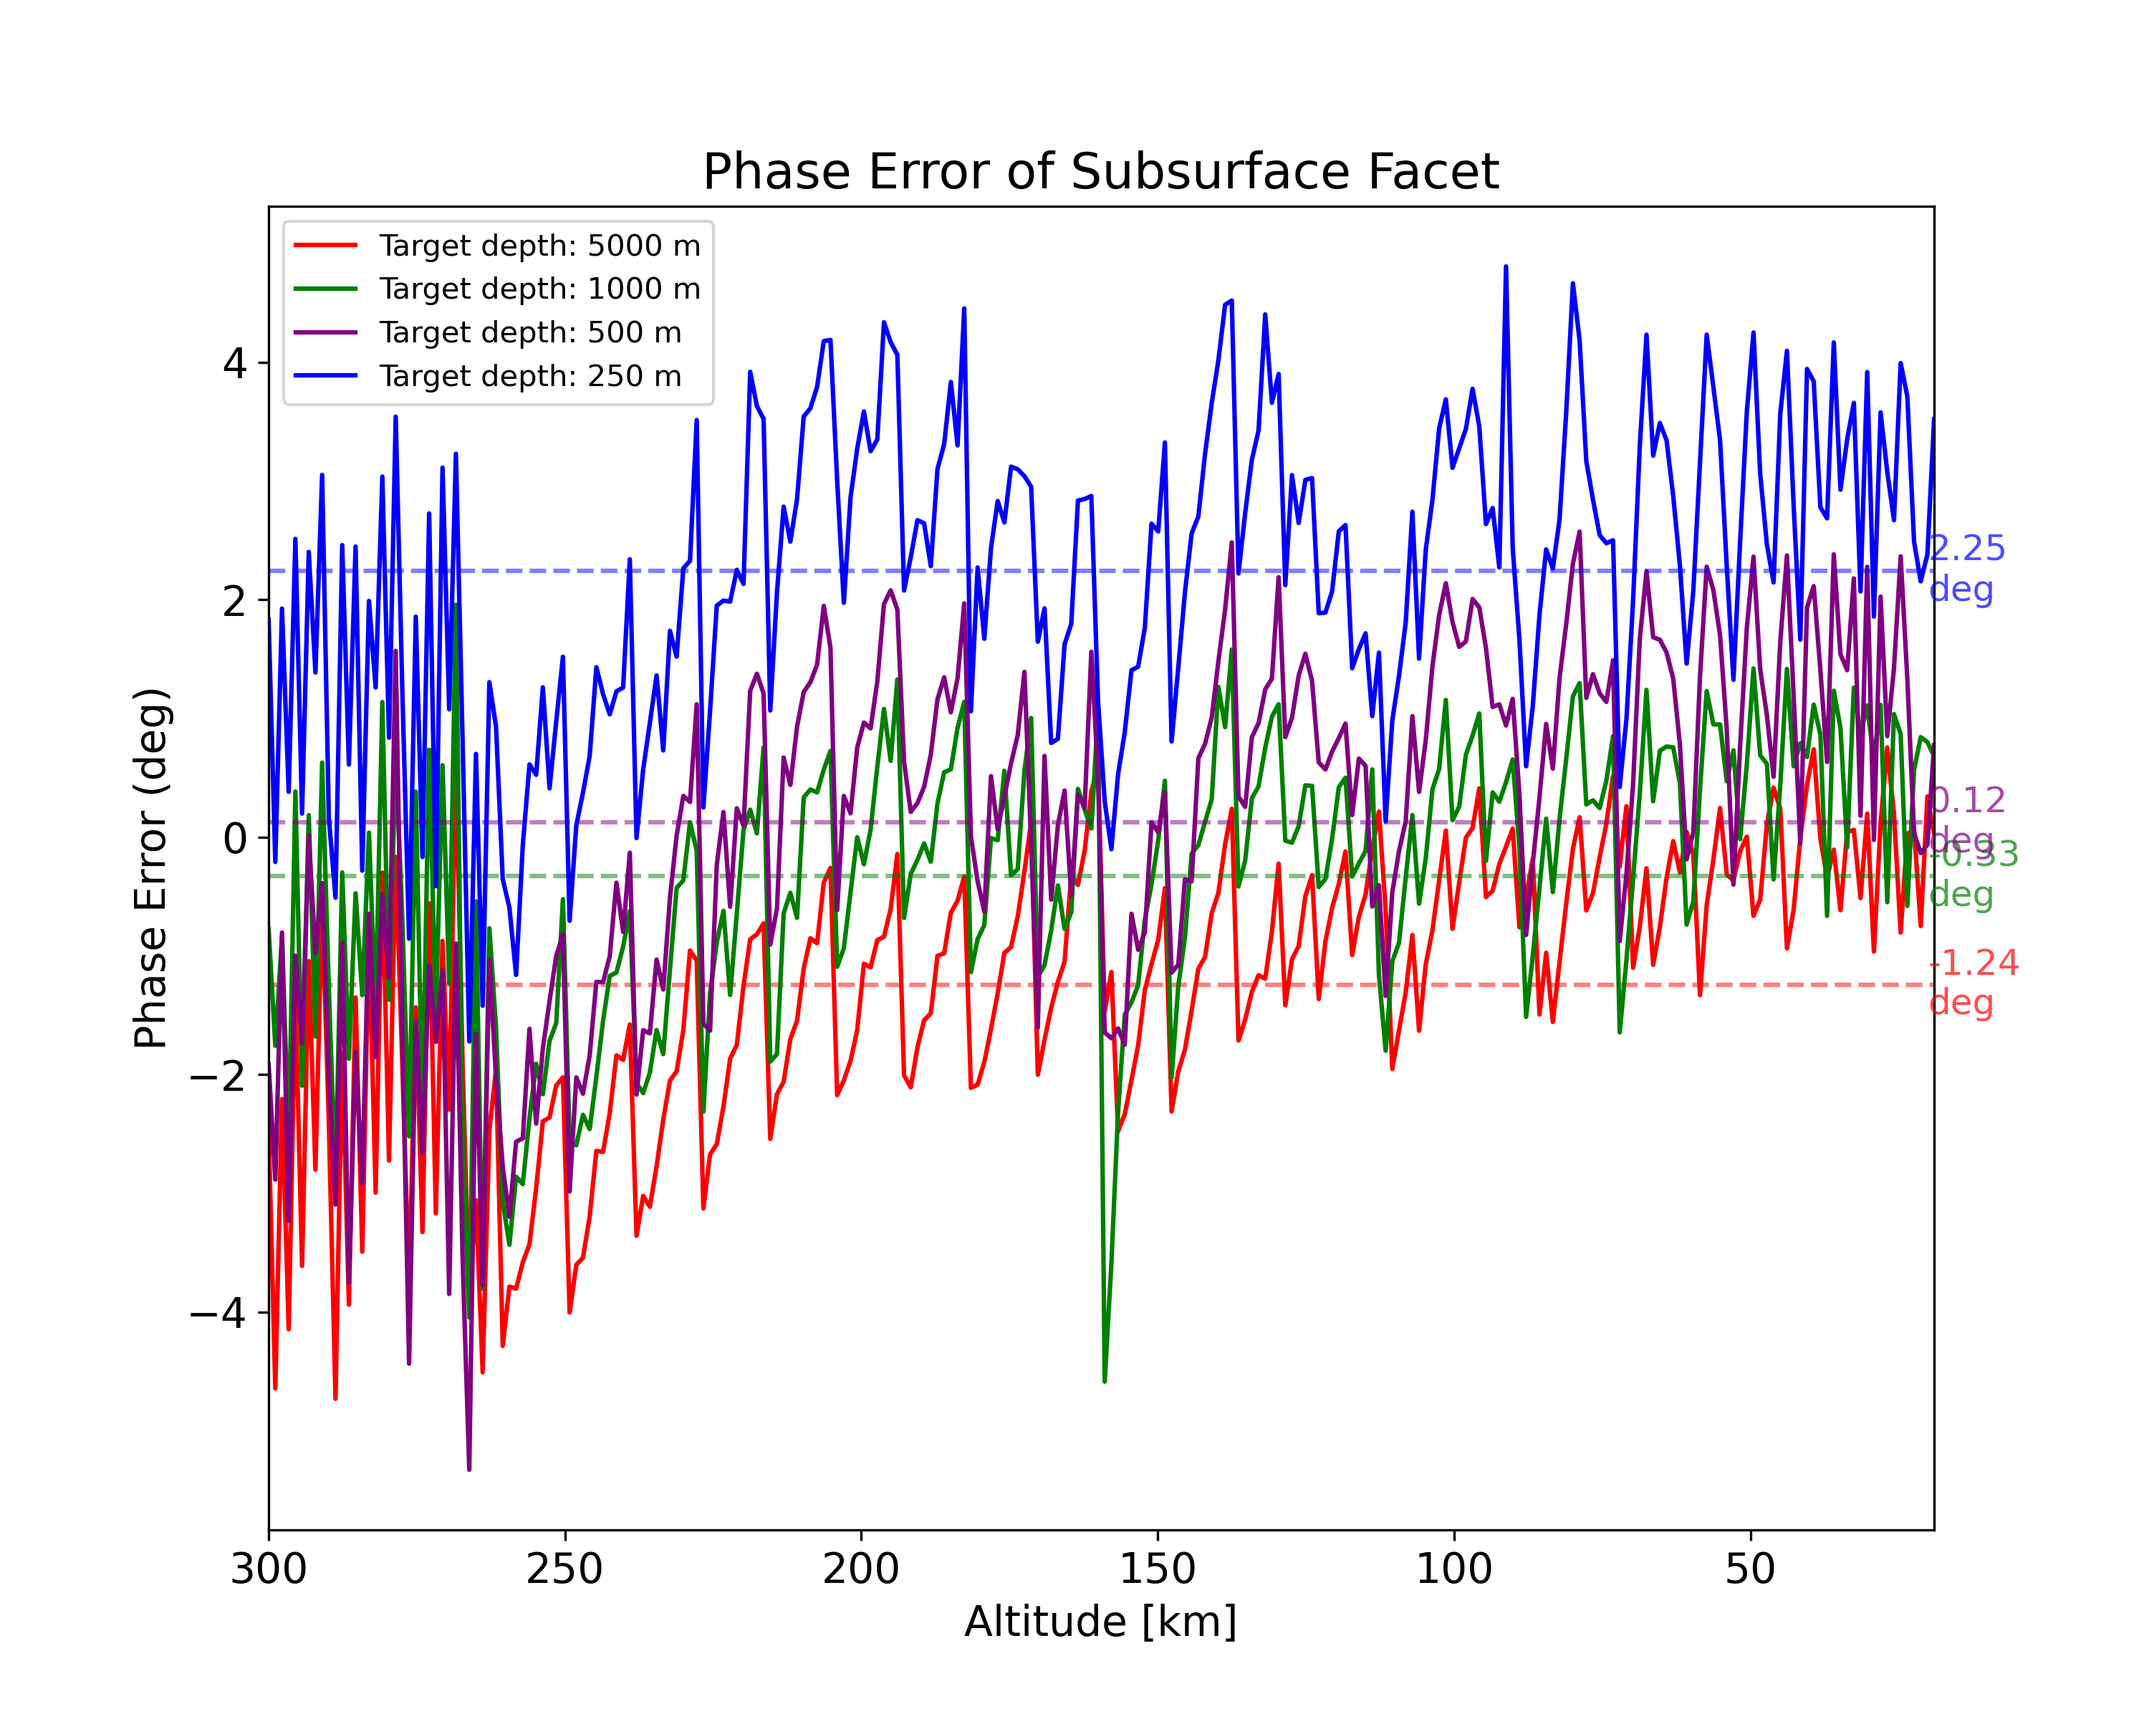
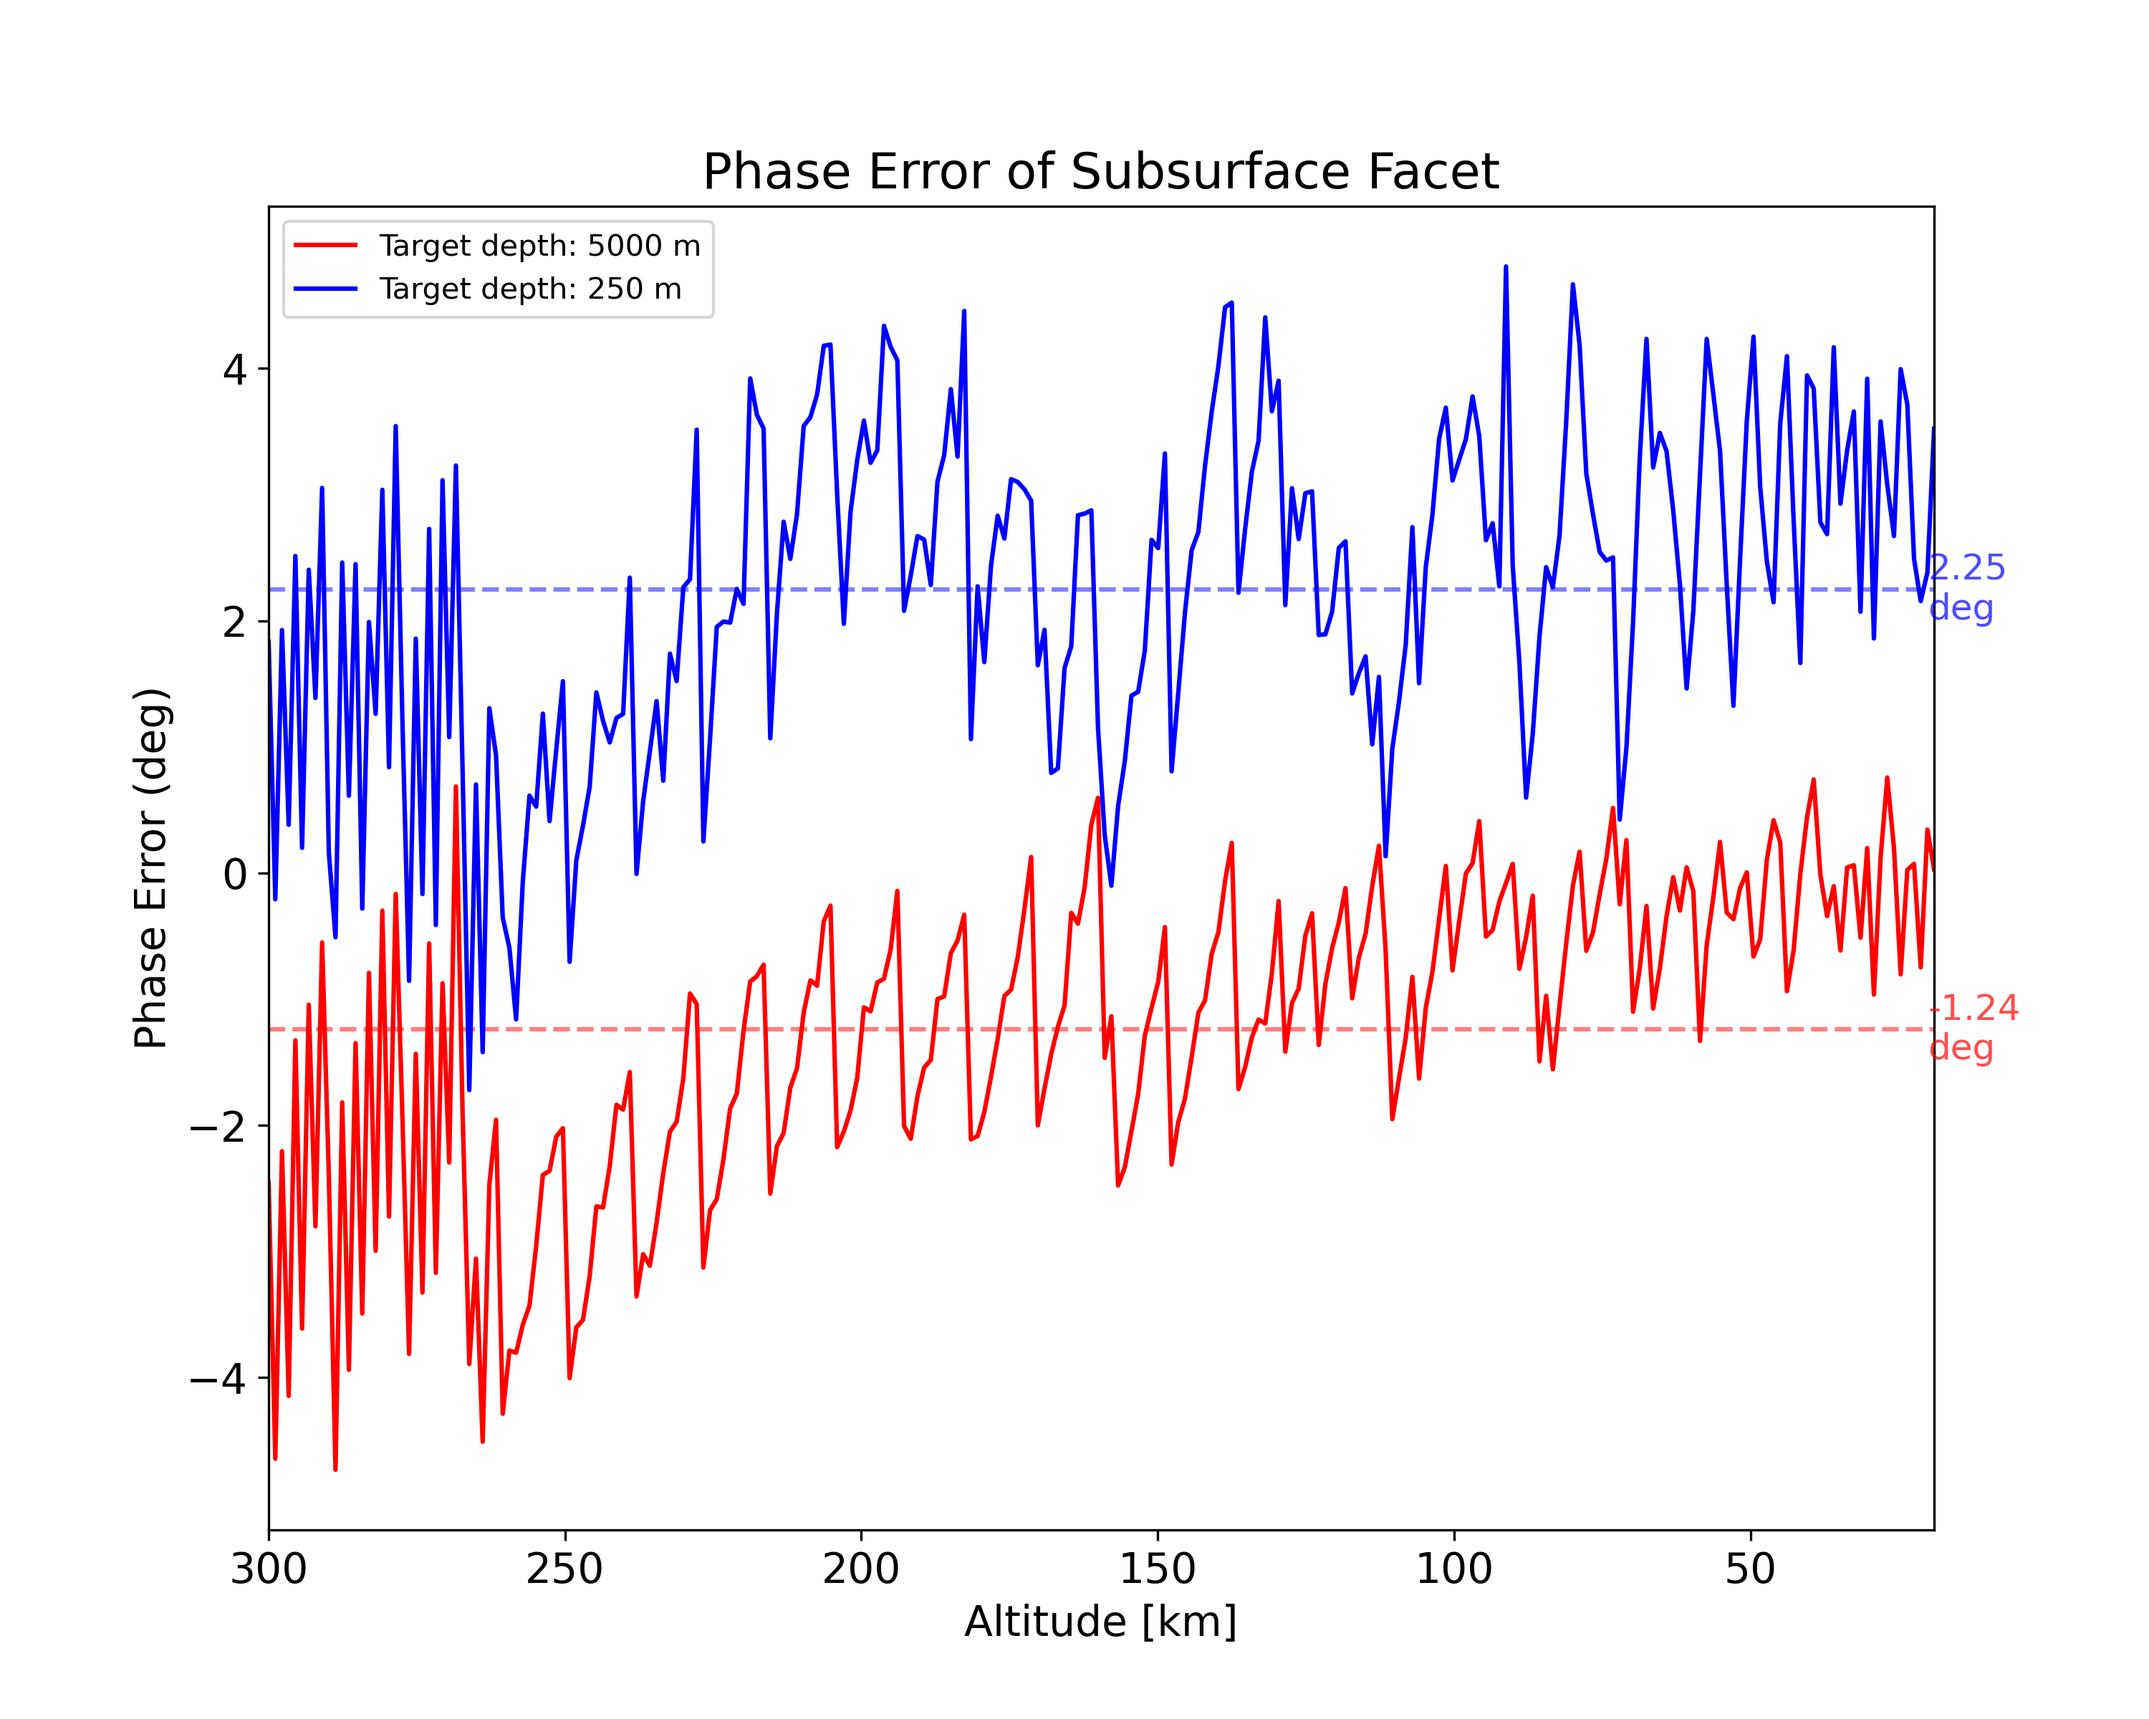
Cleaned up target iteration code

Changed region(s): [[0.093, 0.2188, 0.93, 0.8438], [0.124, 0.1562, 0.341, 0.25]]

diff --git a/examples/UNIT_TESTS/subsurface_offset_target/code/output.py b/examples/UNIT_TESTS/subsurface_offset_target/code/output.py
@@ -188,6 +188,9 @@ ax.set_xlim(h[-1]/1e3, h[0]/1e3)
 
 for d, c, cont in zip(depths, colors, contrast):
 
+    if d != 5000 and d != 250:
+        continue
+
     ana_phse = get_target_phase(params, h, d, xoff)
 
     # load radargram
